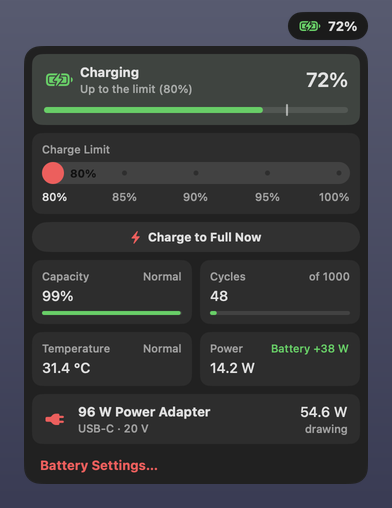
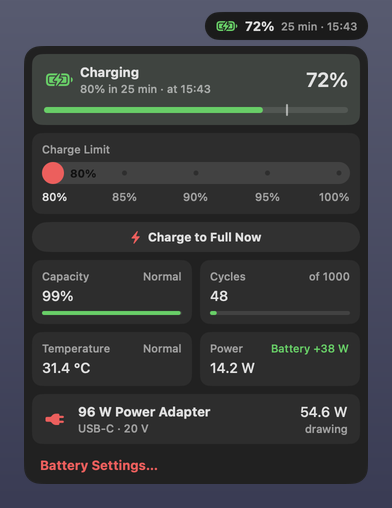
docs: battery and devices screenshots with the time a charge takes
The two screenshots of the README taken again with the made-up data:
battery's pill and popup say how long the charge takes up to the limit
and at what time it gets there, and the charging mouse's tile in
devices how long until it's full. Their descriptions say so too.

Changed region(s): [[0.5204, 0.0, 0.9184, 0.0886], [0.2143, 0.1476, 0.551, 0.2067]]

diff --git a/README.md b/README.md
@@ -50,7 +50,7 @@ Each widget with its popup, on made-up data (see below):
 </tr>
 <tr>
 <td align="center" valign="top"><img src="docs/screenshots/audio.png" width="429" alt="Output and input volume with sliders, tiles for the devices and for Bluetooth headphones and speakers"><br><code>audio</code></td>
-<td align="center" valign="top"><img src="docs/screenshots/battery.png" width="392" alt="The battery charging up to its limit, the Charge Limit as a slider, tiles for capacity, cycles, temperature and power, and the adapter"><br><code>battery</code></td>
+<td align="center" valign="top"><img src="docs/screenshots/battery.png" width="392" alt="The battery charging up to its limit, with how long it takes and at what time it gets there in the bar and in the popup, the Charge Limit as a slider, tiles for capacity, cycles, temperature and power, and the adapter"><br><code>battery</code></td>
 </tr>
 <tr>
 <td align="center" valign="top"><img src="docs/screenshots/notifications.png" width="370" alt="A crash report, Dock badges and Homebrew updates"><br><code>notifications</code><br><br><img src="docs/screenshots/whatsapp.png" width="404" alt="WhatsApp's icon with five unread messages in the bar; in the popup a group chat: a link with its preview, a video with its length, a document, a voice note with a play button and a bar, each under the name of who sent it, and a field to write a reply with a send button"><br><code>whatsapp</code></td>
@@ -58,7 +58,7 @@ Each widget with its popup, on made-up data (see below):
 </tr>
 <tr>
 <td align="center" valign="top"><img src="docs/screenshots/events.png" width="392" alt="The next event in a tile, with its calendar, room, guests and Join Google Meet, an all-day event as a chip, then the day: a past standup, a red line at the time it is now, the design review and lunch, each with the color of its calendar"><br><code>events</code><br><br><img src="docs/screenshots/aerospace.png" width="348" alt="AeroSpace workspaces with the icons of their windows"><br><code>aerospace</code><br><br><img src="docs/screenshots/front_app.png" width="121" alt="The app in front"><br><code>front_app</code></td>
-<td align="center" valign="top"><img src="docs/screenshots/now_playing.png" width="343" alt="A player for Music in the colors of its cover, navy with golden controls: the cover, title, artist and album, a bar to seek, shuffle, previous, pause, next and repeat, the volume, and a switch to Spotify"><br><code>now_playing</code><br><br><img src="docs/screenshots/devices.png" width="392" alt="Earbuds at 15% and a keyboard at 8% in the bar; in the popup a tile for each device, with its kind in a round badge, name and link, the level big and as a bar: a controller, earbuds on an orange tile with each earbud and the case, a mouse charging on its cable, a split keyboard with a bar for each half, a trackpad, a keyboard at 8% on a red tile, a mouse asleep behind its receiver, dimmed; then a controller not connected, and Bluetooth Settings"><br><code>devices</code></td>
+<td align="center" valign="top"><img src="docs/screenshots/now_playing.png" width="343" alt="A player for Music in the colors of its cover, navy with golden controls: the cover, title, artist and album, a bar to seek, shuffle, previous, pause, next and repeat, the volume, and a switch to Spotify"><br><code>now_playing</code><br><br><img src="docs/screenshots/devices.png" width="392" alt="Earbuds at 15% and a keyboard at 8% in the bar; in the popup a tile for each device, with its kind in a round badge, name and link, the level big and as a bar: a controller, earbuds on an orange tile with each earbud and the case, a mouse charging on its cable with how long until it's full and at what time, a split keyboard with a bar for each half, a trackpad, a keyboard at 8% on a red tile, a mouse asleep behind its receiver, dimmed; then a controller not connected, and Bluetooth Settings"><br><code>devices</code></td>
 </tr>
 </table>
 
